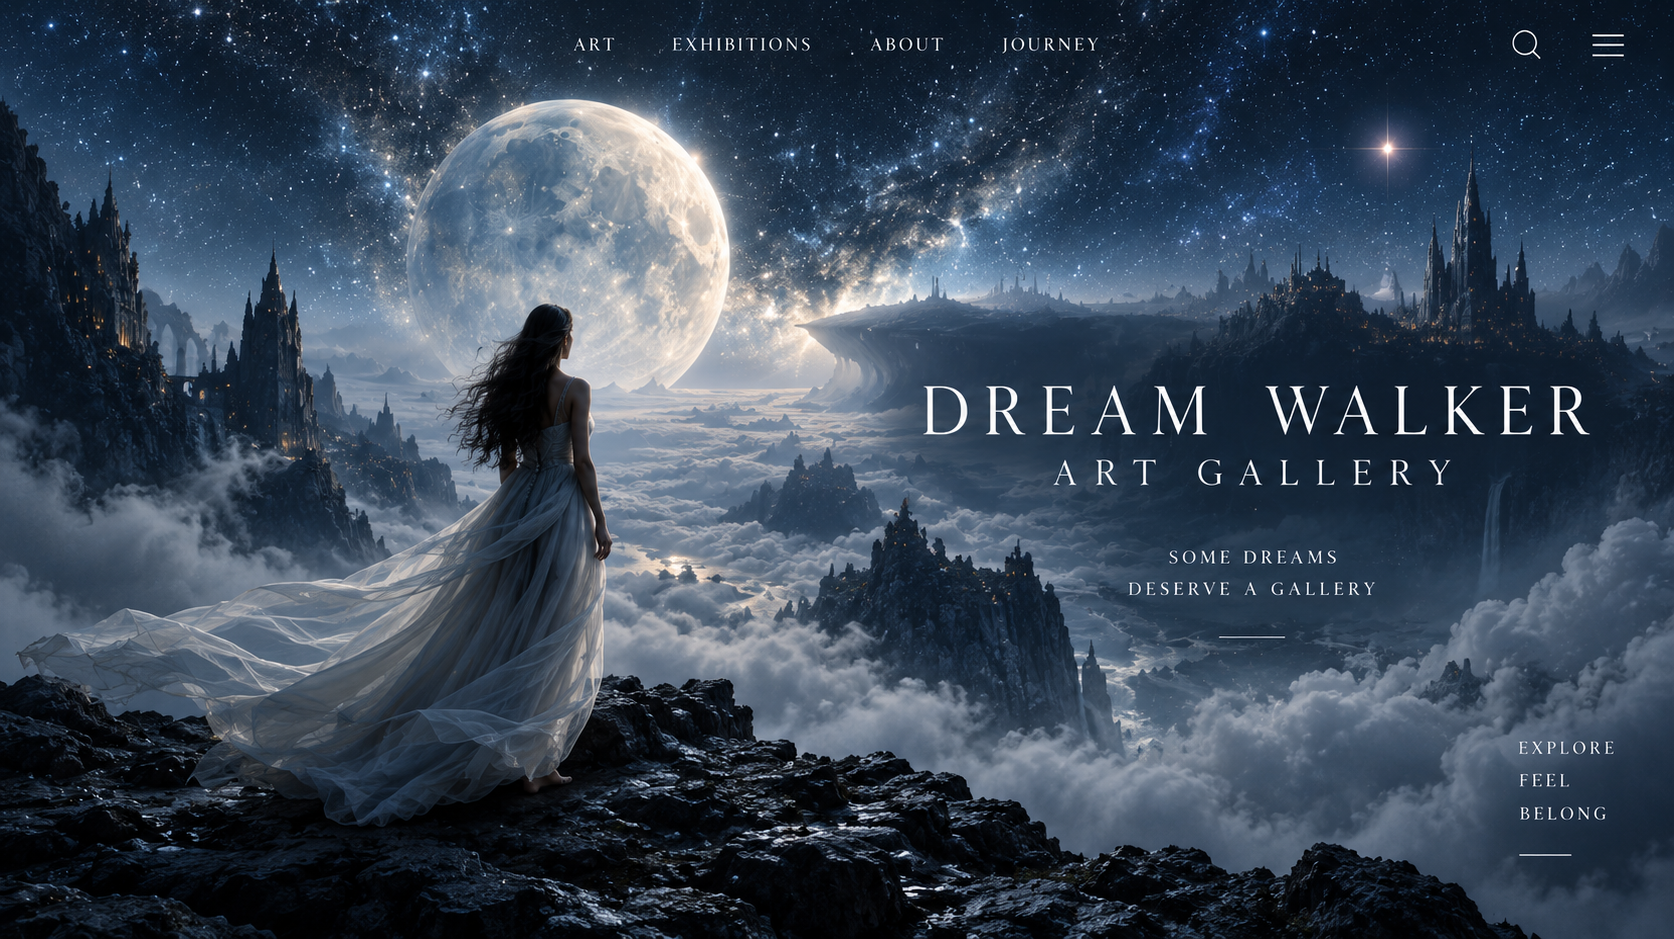
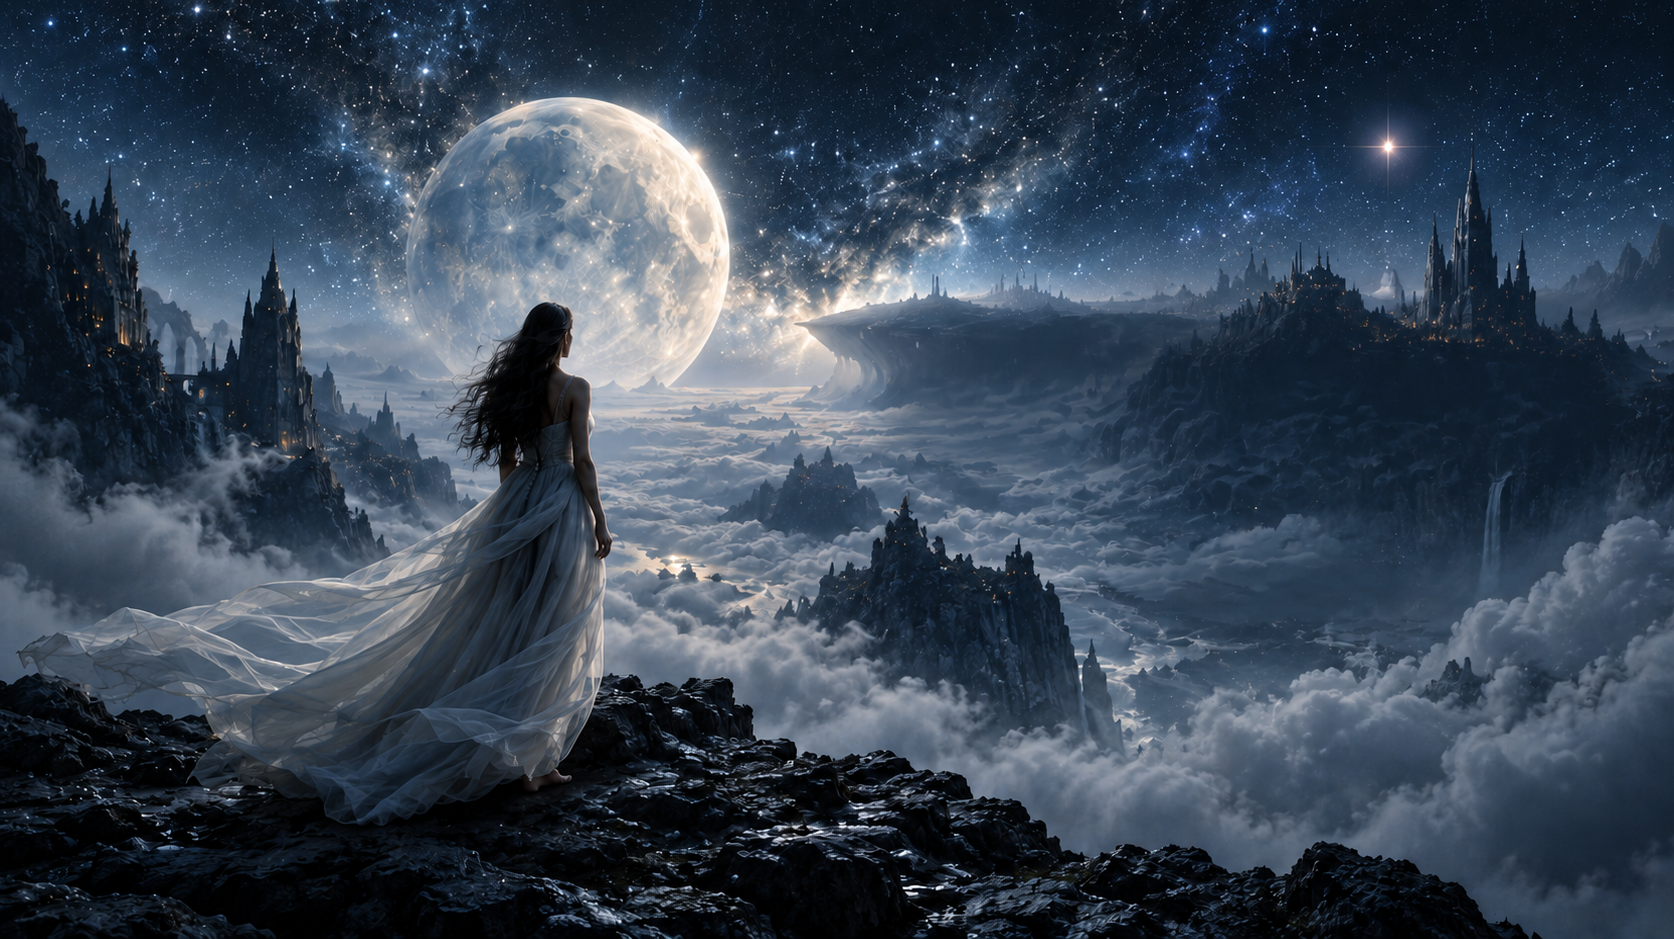
fix

diff --git a/src/assets/css/style.css b/src/assets/css/style.css
@@ -17,7 +17,7 @@ body.gallery-container {
   color: #fff;
 }
 
-/* Navigation Bar */
+/* Navigation Bar — live HTML over the clean hero artwork */
 .navbar {
   position: fixed;
   top: 0;
@@ -27,44 +27,54 @@ body.gallery-container {
   display: flex;
   justify-content: space-between;
   align-items: center;
-  padding: 1rem 2rem;
-  background: rgba(0, 0, 0, 0.8);
-  backdrop-filter: blur(10px);
+  padding: 1.5rem clamp(1.25rem, 4vw, 4.5rem);
+  background: linear-gradient(180deg, rgba(2, 10, 21, 0.76), transparent);
 }
 
 .nav-brand a {
   color: #fff;
   text-decoration: none;
-  font-size: 1.2rem;
-  font-weight: 600;
+  font-family: "Palatino Linotype", "Book Antiqua", Palatino, Georgia, serif;
+  font-size: clamp(1rem, 1.4vw, 1.25rem);
+  font-weight: 400;
+  letter-spacing: 0.16em;
+  text-transform: uppercase;
+  text-shadow: 0 2px 12px rgba(0, 0, 0, 0.7);
 }
 
 .nav-links {
   display: flex;
-  gap: 2rem;
+  gap: clamp(1rem, 2.4vw, 2.75rem);
 }
 
 .nav-link {
   color: #fff;
   text-decoration: none;
-  font-weight: 500;
-  transition: color 0.3s;
+  font-family: "Palatino Linotype", "Book Antiqua", Palatino, Georgia, serif;
+  font-size: 0.78rem;
+  font-weight: 400;
+  letter-spacing: 0.18em;
+  text-transform: uppercase;
+  text-shadow: 0 2px 12px rgba(0, 0, 0, 0.7);
+  transition: color 0.25s ease, opacity 0.25s ease;
 }
 
 .nav-link:hover {
-  color: #007acc;
+  color: #dcecff;
+  opacity: 0.72;
 }
 
 /* Hero Section */
 .hero-section {
   height: 100vh;
+  min-height: 42rem;
   background-image: url('/assets/img/dreamwalker-gallery-main.png');
   background-size: cover;
   background-position: center;
   background-attachment: fixed;
   display: flex;
   align-items: center;
-  justify-content: center;
+  justify-content: flex-end;
   text-align: center;
   position: relative;
   overflow: hidden;
@@ -78,7 +88,7 @@ body.gallery-container {
   left: 0;
   right: 0;
   bottom: 0;
-  background: rgba(0, 0, 0, 0.4);
+  background: linear-gradient(90deg, rgba(2, 9, 19, 0.06) 30%, rgba(2, 9, 19, 0.18) 55%, rgba(2, 9, 19, 0.54) 100%);
   z-index: 1;
 }
 
@@ -86,23 +96,32 @@ body.gallery-container {
   position: relative;
   z-index: 2;
   color: #fff;
-  max-width: 800px;
+  width: min(47vw, 46rem);
+  margin: 7rem clamp(2rem, 8vw, 11rem) 0 0;
   padding: 2rem;
 }
 
 .hero-content h1 {
-  font-size: 4rem;
-  font-weight: 700;
-  margin-bottom: 1rem;
-  text-shadow: 2px 2px 4px rgba(0, 0, 0, 0.8);
-  letter-spacing: 2px;
+  font-family: "Palatino Linotype", "Book Antiqua", Palatino, Georgia, serif;
+  font-size: clamp(2.5rem, 5.2vw, 5.9rem);
+  font-weight: 400;
+  line-height: 0.98;
+  margin-bottom: 1.8rem;
+  text-shadow: 0 3px 18px rgba(0, 0, 0, 0.86);
+  letter-spacing: 0.12em;
+  text-transform: uppercase;
 }
 
 .hero-content p {
-  font-size: 1.3rem;
-  line-height: 1.6;
-  text-shadow: 1px 1px 2px rgba(0, 0, 0, 0.8);
-  opacity: 0.95;
+  max-width: 25rem;
+  margin: 0 auto;
+  font-family: "Palatino Linotype", "Book Antiqua", Palatino, Georgia, serif;
+  font-size: clamp(0.9rem, 1.25vw, 1.2rem);
+  line-height: 1.75;
+  letter-spacing: 0.13em;
+  text-shadow: 0 2px 12px rgba(0, 0, 0, 0.86);
+  text-transform: uppercase;
+  opacity: 0.96;
 }
 
 /* Gallery Main */
@@ -282,8 +301,27 @@ body.gallery-container {
 
 /* Responsive Design */
 @media (max-width: 768px) {
+  .hero-section {
+    min-height: 38rem;
+    background-position: 42% center;
+    align-items: flex-end;
+    justify-content: center;
+    background-attachment: scroll;
+  }
+
+  .hero-section::before {
+    background: linear-gradient(180deg, rgba(2, 9, 19, 0.12), rgba(2, 9, 19, 0.65));
+  }
+
+  .hero-content {
+    width: min(100%, 34rem);
+    margin: 0 0 2rem;
+    padding: 1.5rem;
+  }
+
   .hero-content h1 {
-    font-size: 2.5rem;
+    font-size: clamp(2.3rem, 12vw, 4rem);
+    margin-bottom: 1rem;
   }
   
   .hero-content p {
@@ -292,13 +330,20 @@ body.gallery-container {
   }
   
   .navbar {
-    padding: 1rem;
-    flex-wrap: wrap;
-    gap: 1rem;
+    padding: 1rem 1.25rem;
+    align-items: flex-start;
   }
   
   .nav-links {
-    gap: 1.5rem;
+    justify-content: flex-end;
+    flex-wrap: wrap;
+    gap: 0.55rem 1rem;
+    max-width: 15rem;
+  }
+
+  .nav-brand a,
+  .nav-link {
+    font-size: 0.65rem;
   }
   
   .gallery-grid {
